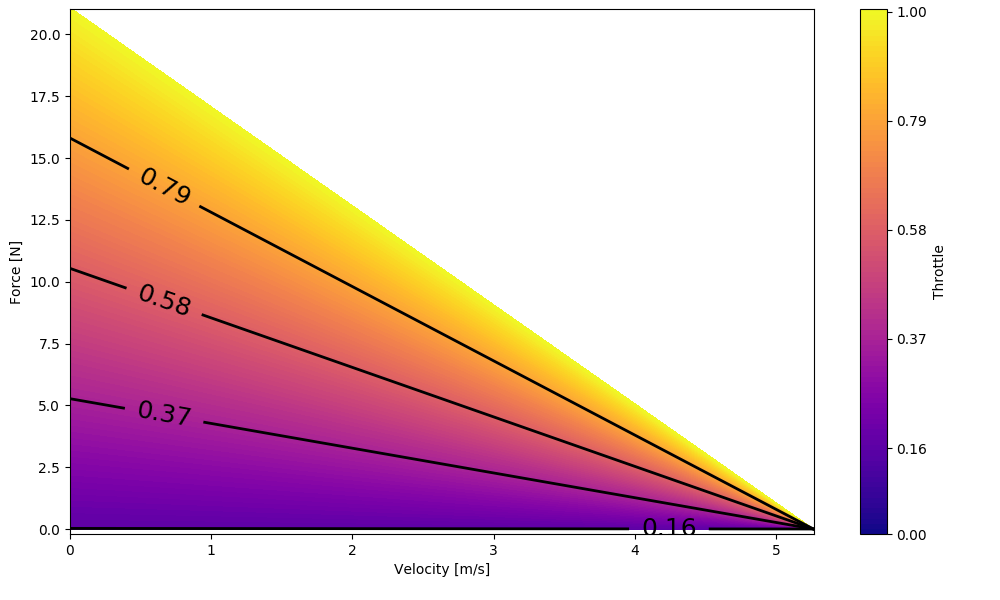
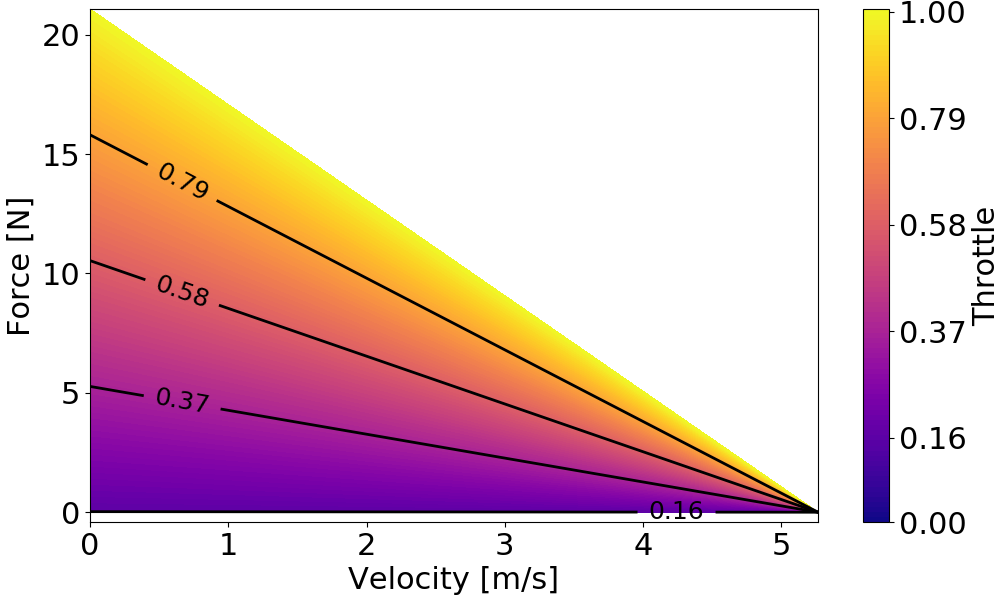
updated images for readme file

Changed region(s): [[0.0, 0.0, 1.0, 0.99], [0.124, 0.06, 0.248, 0.21], [0.899, 0.0, 0.961, 0.06]]

diff --git a/System_identification/2_0_fitting_motor_and_friction_on_board_sensors.py b/System_identification/2_0_fitting_motor_and_friction_on_board_sensors.py
@@ -2,7 +2,10 @@ from dart_dynamic_models import get_data, plot_raw_data, motor_and_friction_mode
 from matplotlib import pyplot as plt
 import torch
 import numpy as np
-
+font = {'family' : 'normal',
+        'size'   : 22}
+import matplotlib
+matplotlib.rc('font', **font)
 
 
 # this assumes that the current directory is DART

diff --git a/System_identification/5_0_fitting_tire_model.py b/System_identification/5_0_fitting_tire_model.py
@@ -5,7 +5,10 @@ import torch
 import numpy as np
 import pandas as pd
 import os
-
+font = {'family' : 'normal',
+        'size'   : 22}
+import matplotlib
+matplotlib.rc('font', **font)
 
 # load parameters
 mf = model_functions()
